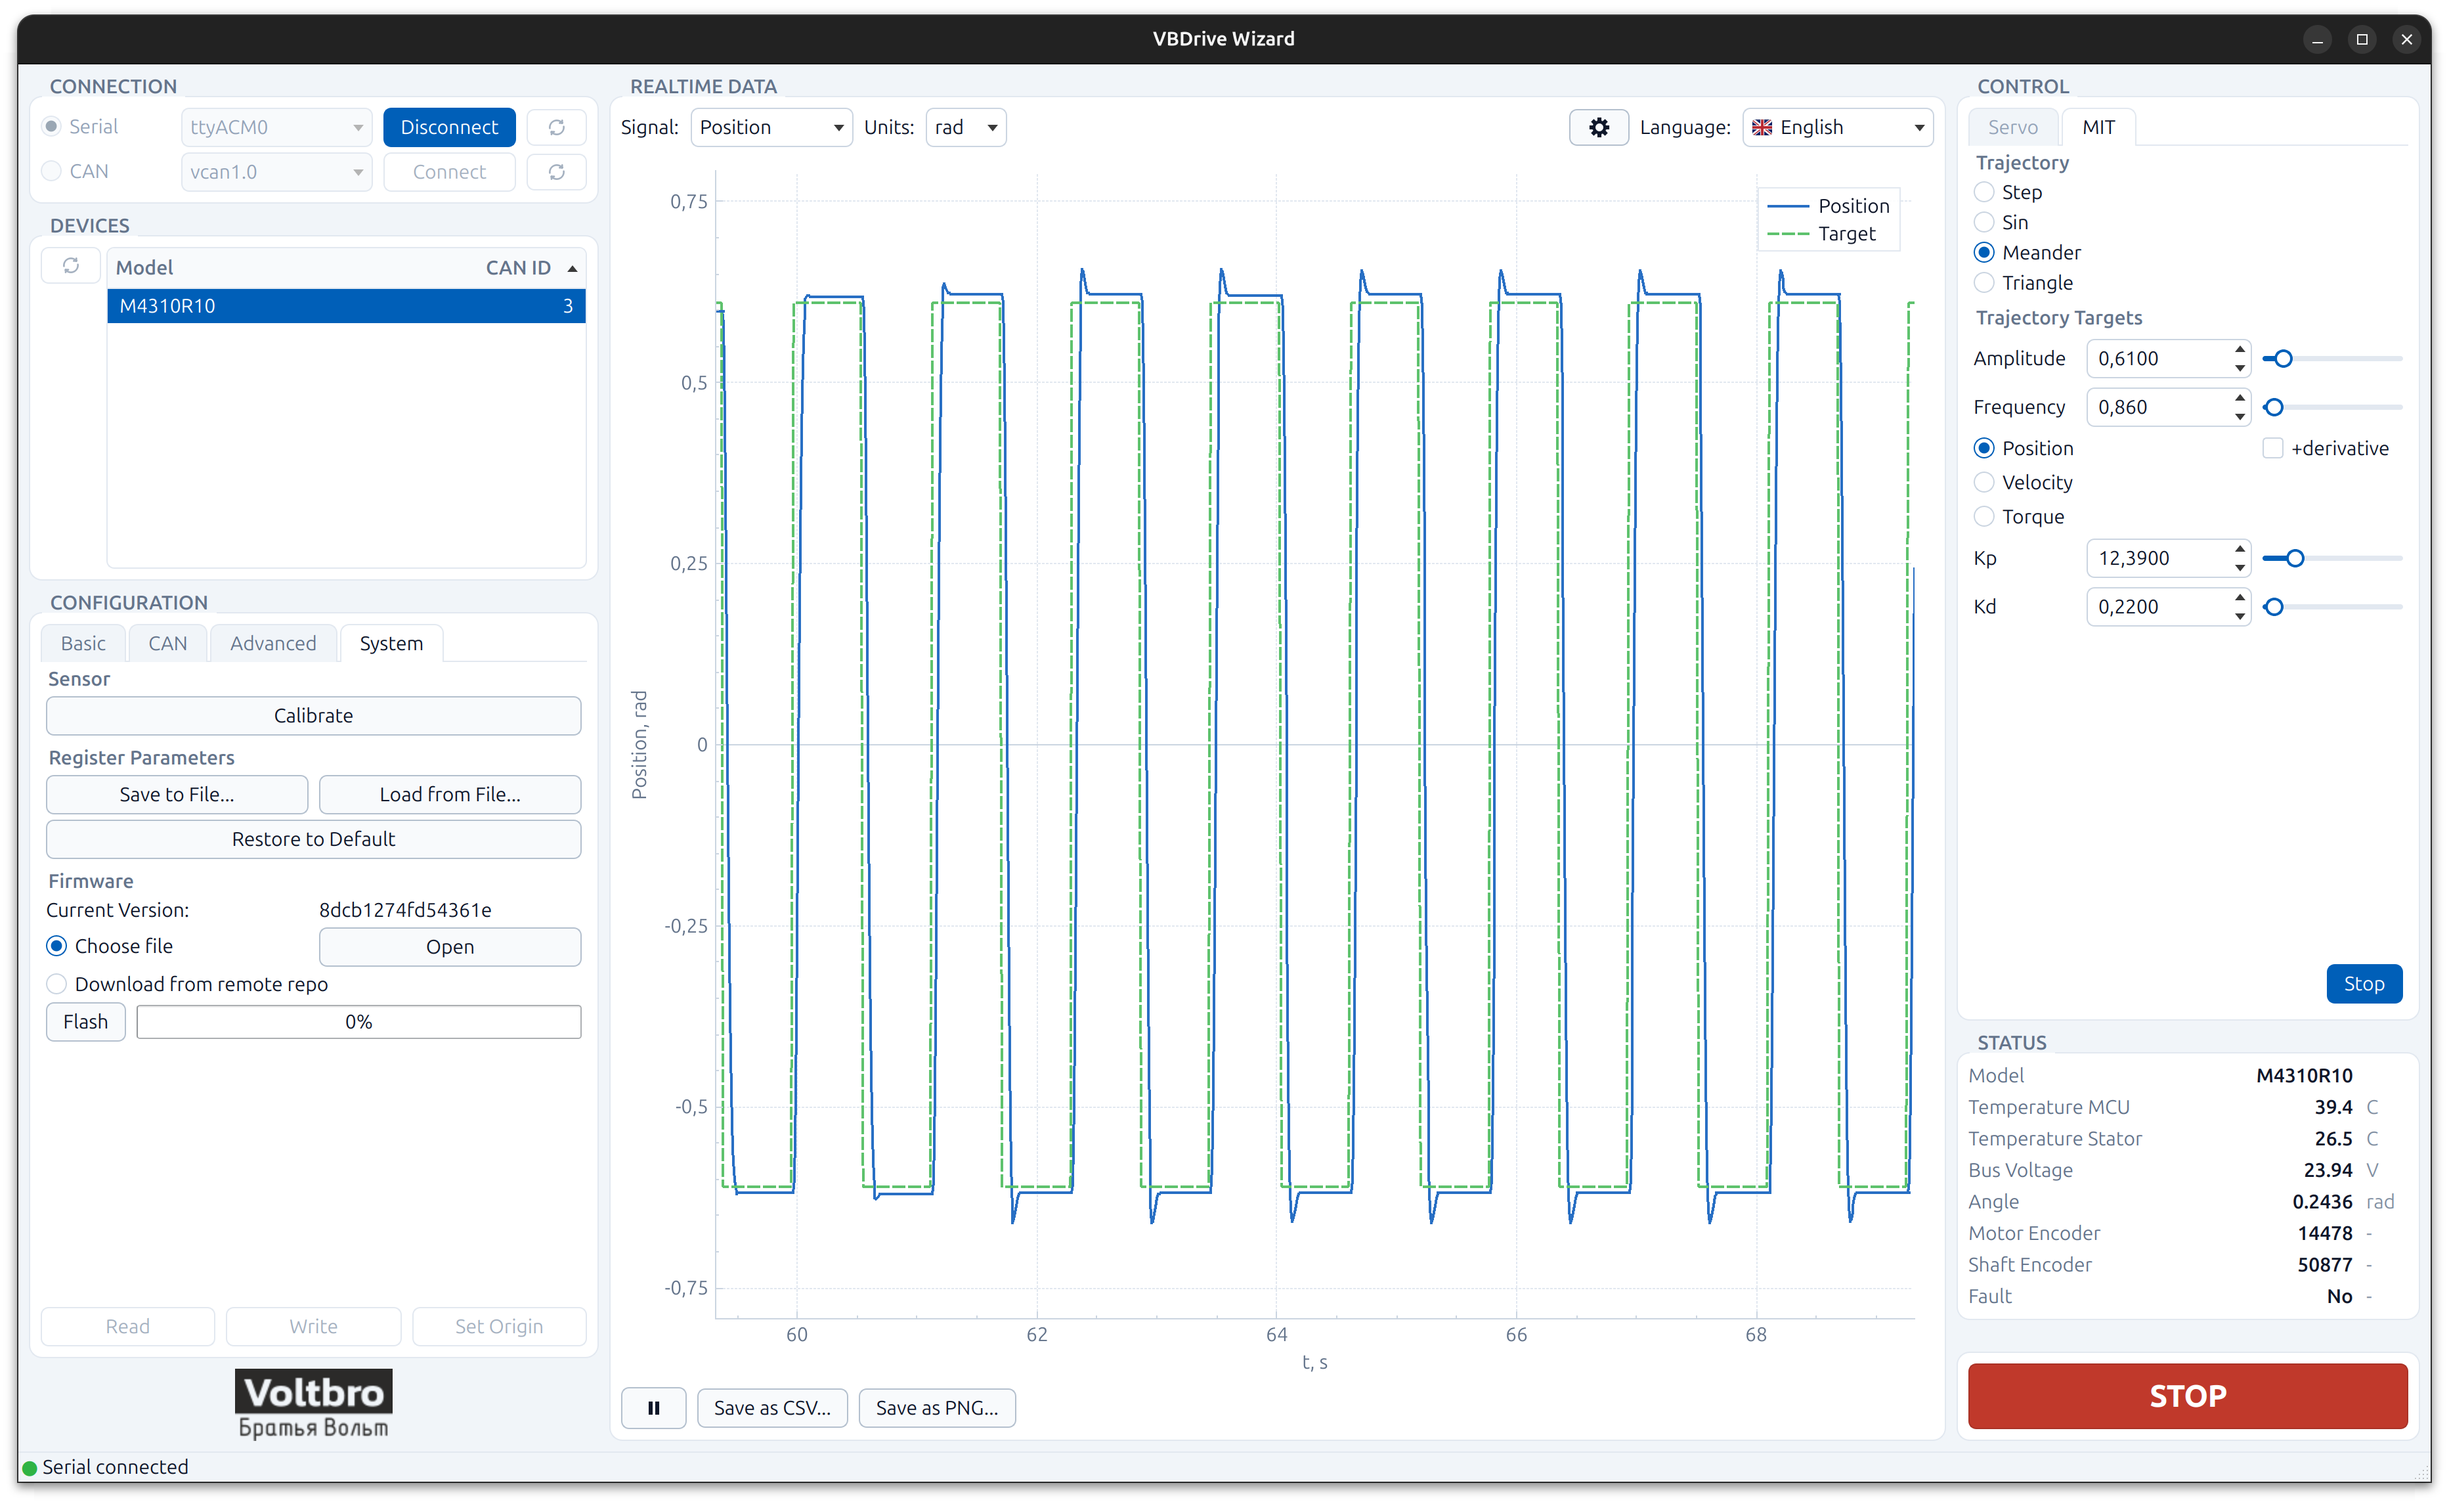
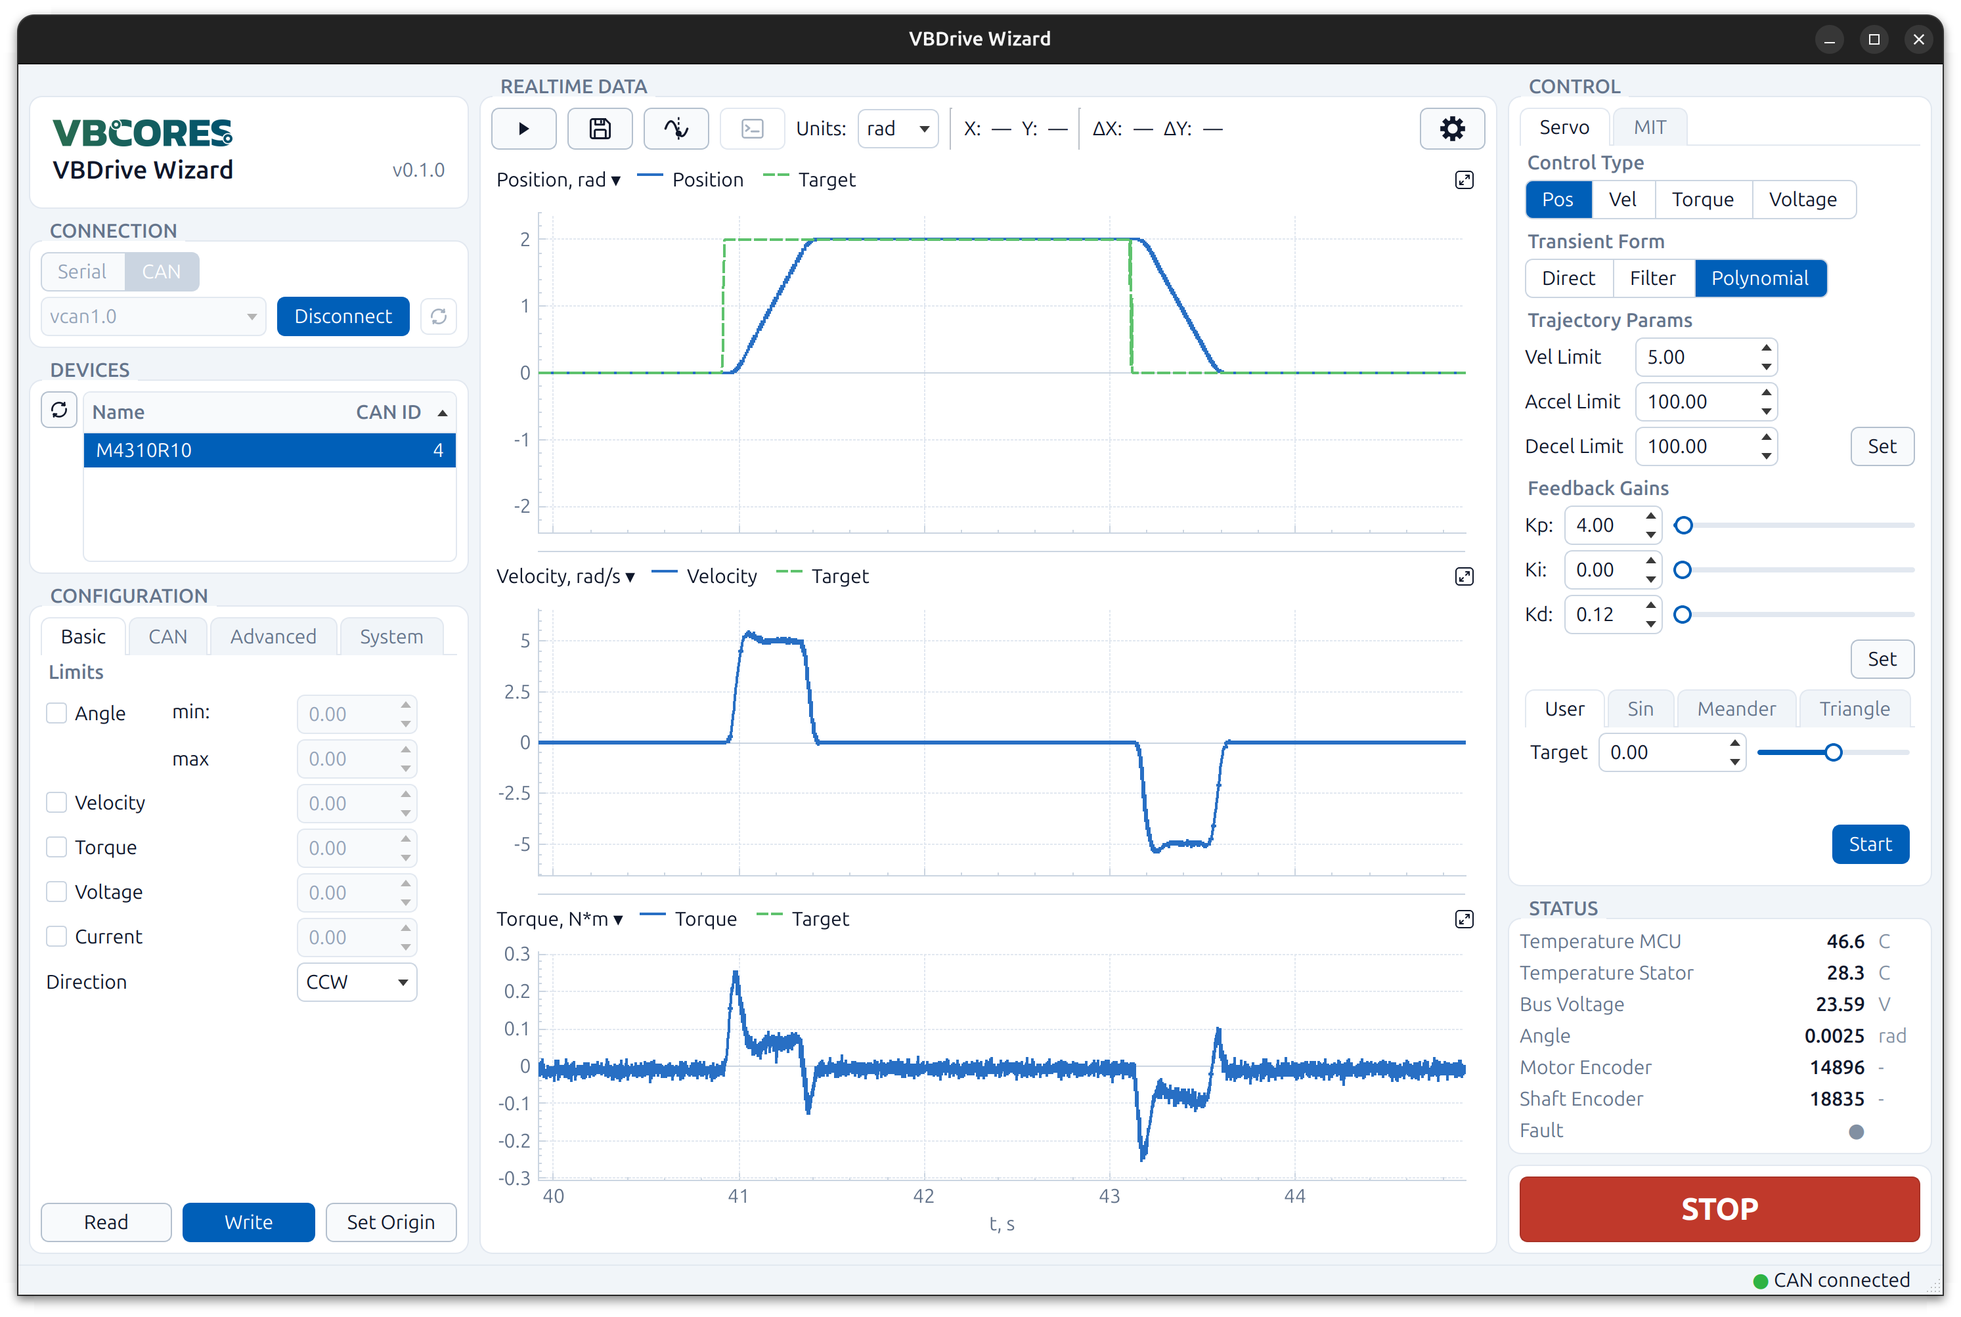
update: readme

diff --git a/README.md b/README.md
@@ -1,45 +1,40 @@
 # VBDrive Wizard
 
 VBDriveWizard — настольное GUI-приложение для удобного взаимодействия пользователя с
-электроприводами [**VBDrive**](https://github.com/VBCores/VBDrive). Приложение служит для
-базовой проверки и первичной настройки приводов.
+электроприводами [**VBDrive**](https://github.com/VBCores/VBDrive). Приложение служит для их
+базовой проверки и первичной настройки.
 
 ![Главное окно VBDrive Wizard](icons/screenshot.png)
 
 Возможности:
 
-- подключение к приводу по USB через программатор (Serial) или по CAN (Cyphal), список найденных устройств;
-- чтение и запись регистров привода (базовые, CAN, расширенные, системные), сохранение
-  и загрузка профиля параметров в YAML, сброс к заводским значениям, калибровка датчика;
+- подключение к приводу по USB через программатор (Serial) или по CAN (Cyphal), можно взаимодействовать сразу с несколькими устройствами;
+- чтение и запись регистров привода, калибровка датчика;
 - график телеметрии в реальном времени (положение, скорость, ток, температура и т. д.)
-  с выбором единиц измерения и экспортом в CSV/PNG;
-- управление приводом: сервоуправление и MIT-режим, тестовые траектории (step, sin,
-  meander, triangle), настройка Kp/Kd, аварийная кнопка STOP;
-- обновление прошивки из файла или из последнего релиза VBDrive на GitHub: через
-  ST-Link (OpenOCD, SWD), а при подключении по CAN — через загрузчик VBBoot прямо по
-  шине, для привода, выбранного в списке устройств;
-- интерфейс на русском, английском и китайском, светлая и тёмная темы.
+  с возможностью экспорта в CSV/PNG/JPG;
+- управление приводом в режимах SERVO и MIT, тестовые траектории (step, sin,
+  meander, triangle);
+- обновление прошивки из файла или из последнего релиза VBDrive на GitHub;
+- прошивка возможна через программатор и CAN-шину;
 
 ---
 
 ## Установка на Ubuntu 24.04
 
 Приложение распространяется в виде `.deb`-пакета. Пакет собран под Ubuntu 24.04 LTS
-(Qt 6.4); на более старых выпусках (22.04 и ниже) он не установится.
+(Qt 6.4); на других версиях может работать не корректно.
 
 ### 1. Скачайте пакет
 
 Откройте страницу [Releases](https://github.com/VBCores/VBDriveWizard/releases) и скачайте
-файл `vbdrivewizard_<версия>_amd64.deb` из последнего релиза, например
-`vbdrivewizard_0.0.1_amd64.deb`. По умолчанию браузер сохраняет его в `~/Downloads`
-(`~/Загрузки`).
+файл `vbdrivewizard_<версия>_amd64.deb` из последнего релиза.
 
 ### 2. Установите пакет
 
 Откройте терминал (`Ctrl+Alt+T`) и выполните команду:
 
 ```bash
-cd ~/Downloads
+cd <адрес расположения пакета>
 sudo apt install ./vbdrivewizard_0.0.1_amd64.deb
 ```
 
@@ -54,8 +49,8 @@ sudo apt install ./vbdrivewizard_0.0.1_amd64.deb
 sudo usermod -aG dialout $USER
 ```
 
-После этого **выйдите из системы и войдите снова** (или перезагрузите ПК) — членство в
-группе применяется только при новом входе. Проверить, что всё сработало:
+После этого **выйдите из системы и войдите снова** (или перезагрузите ПК), так как членство в
+группе применяется только при новом входе. Проверить, что всё сработало можно командой:
 
 ```bash
 groups
